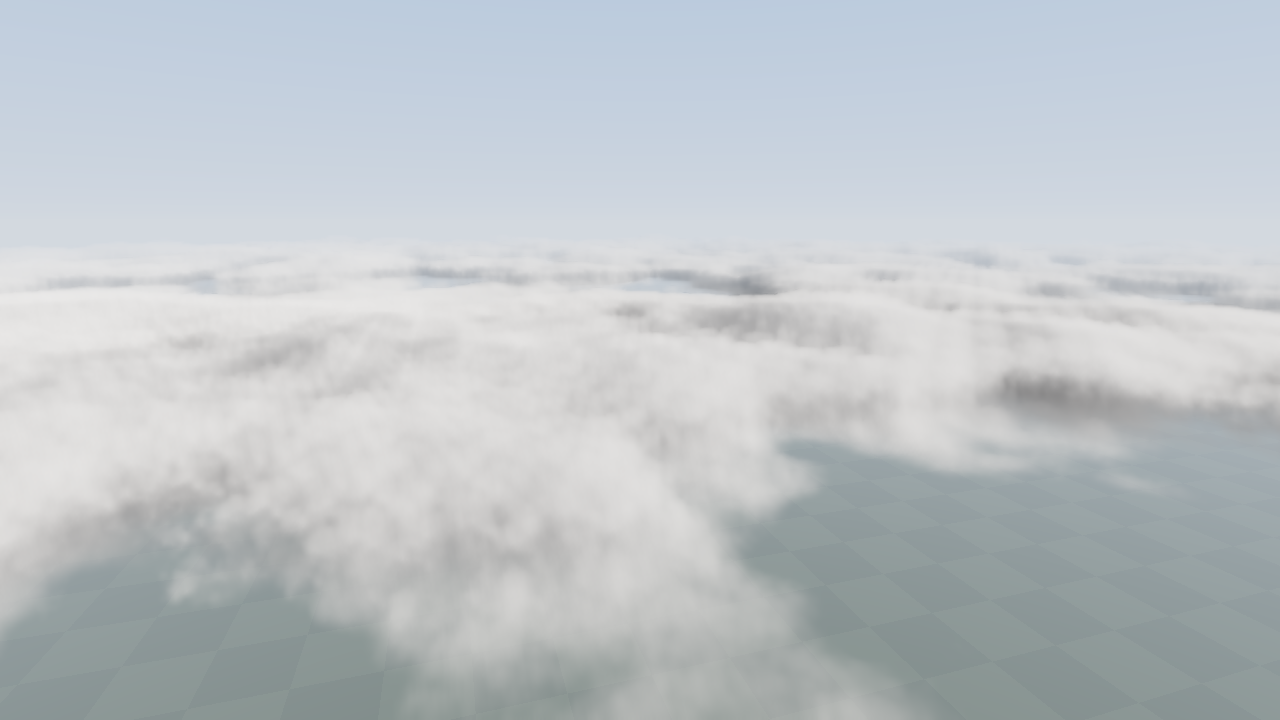
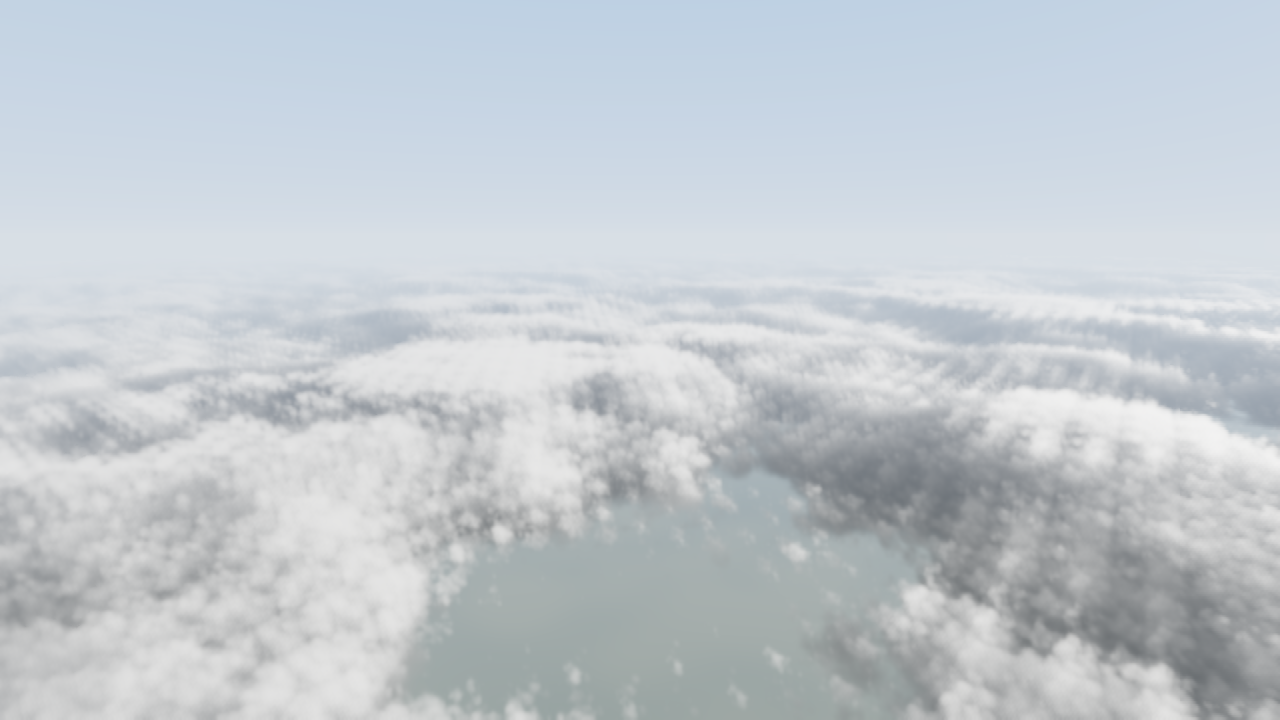
Sharper cloud shapes, better lighting, new renders
- Denser clouds with stronger detail erosion and smaller shape cells, so
  individual cumulus read instead of a smeared deck. Flatter bases.
- Powder term now applies when the sun is behind the viewer; it was
  suppressing the silver lining on edges seen against the sun.
- Brighter sky ambient with ground bounce on the undersides; cool shadows
  and warm horizon light at sunset.
- Composite: aerial perspective on distant clouds, softer sun disc with a
  two-width glow, patchy ground instead of the checkerboard.
- New README images, reproducible with docs/render.sh; benchmark table
  rerun on the current machine.

diff --git a/src/main.cpp b/src/main.cpp
@@ -183,7 +183,7 @@ int runInteractive(Options& o, Context& ctx, Renderer& r) {
         if (ctx.keyDown(GLFW_KEY_Z)) o.weather.coverage = std::max(0.f, o.weather.coverage - k);
         if (ctx.keyDown(GLFW_KEY_X)) o.weather.coverage = std::min(1.f, o.weather.coverage + k);
         if (ctx.keyDown(GLFW_KEY_C)) o.weather.density = std::max(0.1f, o.weather.density - k);
-        if (ctx.keyDown(GLFW_KEY_V)) o.weather.density = std::min(3.f, o.weather.density + k);
+        if (ctx.keyDown(GLFW_KEY_V)) o.weather.density = std::min(6.f, o.weather.density + k);
         if (ctx.keyDown(GLFW_KEY_B)) o.weather.cloudType = std::max(0.f, o.weather.cloudType - k);
         if (ctx.keyDown(GLFW_KEY_N)) o.weather.cloudType = std::min(1.f, o.weather.cloudType + k);
         if (ctx.keyDown(GLFW_KEY_O)) o.weather.sunAzimuth -= k;

diff --git a/src/renderer.h b/src/renderer.h
@@ -5,8 +5,8 @@
 
 struct Weather {
     float coverage = 0.5f;    // 0..1, shifts the weather map's coverage
-    float density = 1.0f;     // extinction multiplier
-    float cloudType = 0.55f;  // 0 stratus .. 1 cumulonimbus
+    float density = 3.0f;     // extinction multiplier
+    float cloudType = 0.75f;  // 0 stratus .. 1 cumulonimbus
     float baseHeight = 1500.f;
     float thickness = 2500.f;
     float windX = 12.f, windZ = 4.f;
@@ -16,7 +16,7 @@ struct Weather {
     float sunIntensity = 10.f;
     float extinction = 0.012f; // per metre at density 1
     float ambient = 1.0f;
-    float erosion = 0.45f;     // how much the detail noise eats into cloud edges
+    float erosion = 0.75f;     // how much the detail noise eats into cloud edges
 };
 
 struct RenderSettings {

diff --git a/README.md b/README.md
@@ -12,7 +12,7 @@ It runs interactively through GLFW, or headless through surfaceless EGL on Linux
 
 **Cloud model.** A 128³ shape texture (Perlin fbm dilated by Worley, plus three Worley octaves) and a 32³ Worley detail texture, both generated on the GPU by compute shaders at startup and tileable so the layer extends to the horizon. A 512² weather map gives coverage and cloud type per region. Cloud type picks a vertical density profile (stratus, cumulus, cumulonimbus), and the detail texture erodes the edges of the base shape, with less erosion where coverage is high so solid decks stay solid. Wind scrolls the noise over time with a little shear by height.
 
-**Lighting.** Each march step takes six samples toward the sun to get optical depth, then evaluates a four-octave multiple-scattering approximation (attenuated extinction, contribution and phase eccentricity per octave, after Wrenninge and Hillaire) with a two-lobe Henyey-Greenstein phase function. A powder term darkens back-lit edges, and an ambient term fades from blue at the top of the layer to grey at the bottom. In-scattering is integrated analytically over each step so the result does not depend on step size. The sun and sky colour shift warm as the sun nears the horizon.
+**Lighting.** Each march step takes six samples toward the sun to get optical depth, then evaluates a four-octave multiple-scattering approximation (attenuated extinction, contribution and phase eccentricity per octave, after Wrenninge and Hillaire) with a two-lobe Henyey-Greenstein phase function. A powder term darkens thin edges when the sun is behind the viewer, so edges seen against the sun keep their silver lining. Ambient light is sky light fading from blue at the top of the layer to grey at the bottom, plus a little ground bounce on the undersides; at sunset the shadowed sides turn blue-violet and the lower parts pick up warm light from the horizon. In-scattering is integrated analytically over each step so the result does not depend on step size. The sun and sky colour shift warm as the sun nears the horizon. In the composite, distant clouds fade toward the horizon haze by their marched depth.
 
 **Marching.** Rays intersect a spherical shell around the planet, so the layer curves away at the horizon and the camera can be below, inside or above it. Step size is derived from the ray's span through the layer. Steps are jittered per pixel with interleaved gradient noise that changes each frame, and the march stops once transmittance drops below 0.5%. The pass writes radiance, transmittance and a transmittance-weighted mean depth.
 
@@ -22,14 +22,14 @@ It runs interactively through GLFW, or headless through surfaceless EGL on Linux
 
 ## Performance
 
-`--bench` times each pass over a window of frames. These numbers are from Mesa llvmpipe (a CPU rasterizer) at 640×360, so the absolute values are meaningless. The ratios are the point: half-resolution with reprojection costs 29% of the full-resolution march for a result that converges to the same image.
+`--bench` times each pass over a window of frames. These numbers are from Mesa llvmpipe (a CPU rasterizer) at 640×360, so the absolute values are meaningless. The ratios are the point: half-resolution with reprojection costs about a third of the full-resolution frame (the cloud pass alone is 3.4× cheaper) for a result that converges to the same image.
 
 | configuration | cloud pass | resolve | composite | total |
 |---|---|---|---|---|
-| full-res, 128 steps, no temporal | 899 ms | 13 ms | 15 ms | 927 ms |
-| full-res, 64 steps, no temporal | 468 ms | 8 ms | 15 ms | 490 ms |
-| half-res, 128 steps, temporal | 221 ms | 27 ms | 18 ms | 266 ms |
-| quarter-res, 128 steps, temporal | 81 ms | 30 ms | 13 ms | 124 ms |
+| full-res, 128 steps, no temporal | 233 ms | 1 ms | 3 ms | 237 ms |
+| full-res, 64 steps, no temporal | 128 ms | 2 ms | 3 ms | 133 ms |
+| half-res, 128 steps, temporal | 68 ms | 6 ms | 3 ms | 77 ms |
+| quarter-res, 128 steps, temporal | 23 ms | 6 ms | 3 ms | 32 ms |
 
 Run `clouds --bench --size 1920x1080` on a GPU for real numbers.
 
@@ -72,6 +72,8 @@ Shaders are read at runtime from `./shaders`, or wherever `--shaders` points.
 | R | reset weather |
 | F5 | reload shaders |
 | F12 | save screenshot.png |
+
+The images at the top come from `docs/render.sh`, which runs these three views headless at 1280×720.
 
 Headless options: `--size WxH`, `--frames N` (frames to accumulate before saving), `--cam X,Y,Z --yaw --pitch`, `--move X,Y,Z` (per-frame camera motion, for testing reprojection), and the weather flags `--coverage --density --type --sun-el --sun-az`. `--help` lists everything.
 
